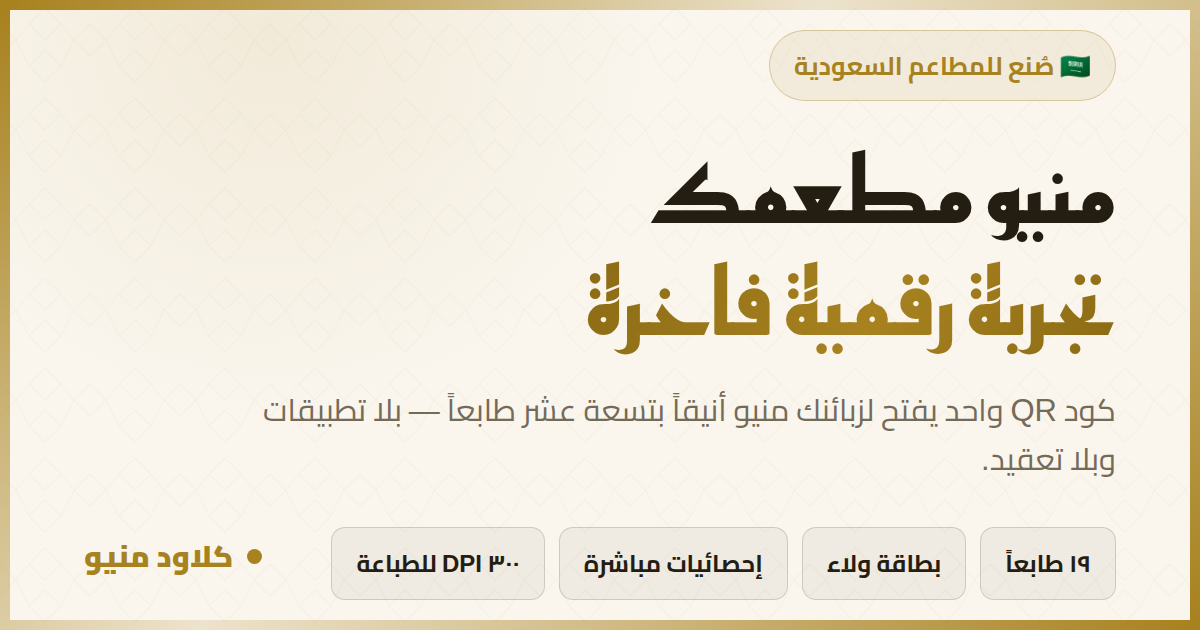
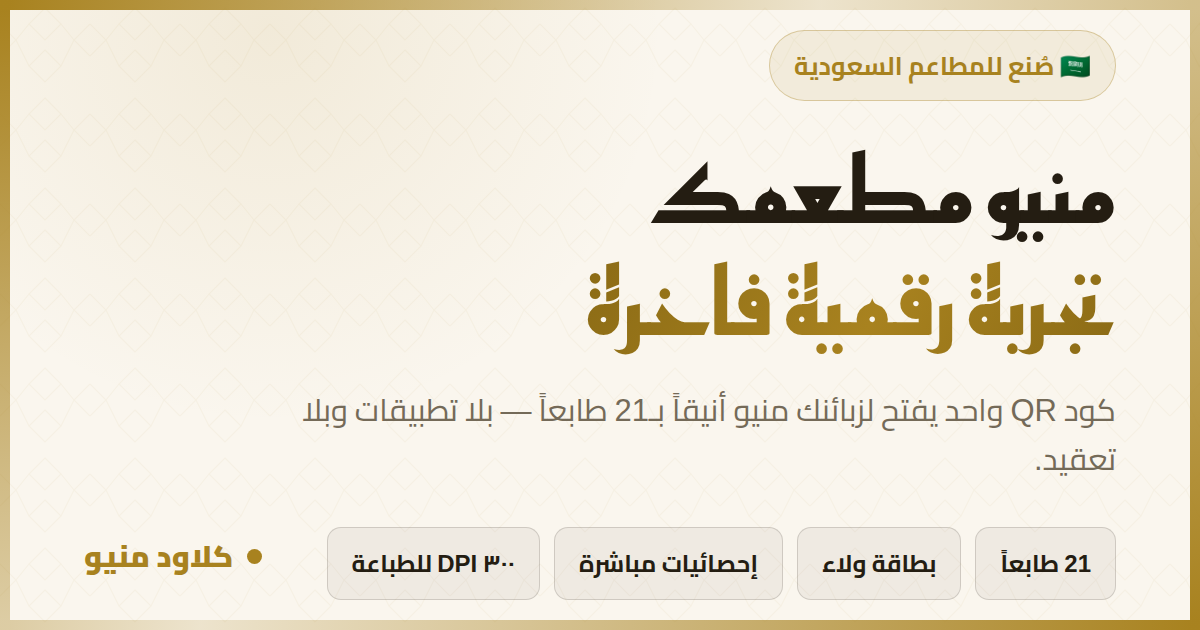
fix(copy): المنتج ٢١ طابعاً واشتراكٌ لا مجّانية — والدفع يُذكر
أربعة قرارات من المالك، وحارسان يمنعان عودة اثنين منها.

**١) العدد ٢١ لا ١٩.** `lib/facts.ts` يحسبه من `ALL_THEMES.length` منذ أن
تقادم «١٢ طابعاً» مرّةً — لكن العطل عاد **في النثر**: ثمانية نصوص تقول
«تسعة عشر»، منها وسوم `index.html` التي تقرؤها محرّكات البحث،
و`manifest.webmanifest`، وبطاقة المشاركة التي تظهر في واتساب. أي أن الصفحة
كانت تنقص من المنتج طابعين أمام التاجر لحظة القرار.

ما في الحزمة صار يشتقّ العدد من `THEME_COUNT`. وما هو خارجها (وسوم ساكنة،
manifest، سكربت البطاقة) يبقى مكتوباً بالضرورة — فيحرسه `facts-copy.test.ts`:
يقرأ الرقم منها ويقارنه بالمصدر، ويرفض العدد مكتوباً بالحروف لأن ذاك هو
الشكل الذي تقادم فعلاً. وأُعيد توليد `og.png`.

**٢) التجربة ثلاثة أيام.** `TRIAL_DAYS = 3` في الشيفرة منذ قرار التسعير،
و§9 في `docs/security.md` بقي يقول ١٤. صُحّح، ومعه أن المدّة الفعليّة تفرضها
القاعدة لا الواجهة.

**٣) الدفع الإلكتروني يُذكر.** المسار موصول كاملاً (`Cart` ⇐ `CartReview` ⇐
`paylink-order-create` ⇐ `order-verify`)، والتاجر يربط بوّابته من
`PaymentSettingsCard`. والتعليق في `plans.ts` كان يمنع ذكره لأنه «غير
مُفعَّل» — وتقادم.

وصيغة الذكر «إلى حسابك أنت» لا «ادفع عندنا»: المال يصل حساب التاجر مباشرة
ولا يمرّ بالمنصّة، وهذا هو الفرق الذي يشتريه.

⚠ وكان في `free-tier.test.ts` حارسٌ يُسقط أي ادّعاء دفع، وقد نصّ هو على
شرط رفعه: «يوم يُفعَّل المسار يُحذف بقرار صريح، لا يمرّ الادّعاء سهواً».
فرُفع بقرار المالك ووُثّق سببه في موضعه — ويبقى محروساً أن الدفع ميزة
اشتراك لا شيء يُفتح لمن لم يدفع.
[…]

diff --git a/app/src/pages/Landing.tsx b/app/src/pages/Landing.tsx
@@ -33,7 +33,7 @@ import { absoluteUrl, useJsonLd, useSeo } from "@/lib/seo";
 /* ── شريط الطوابع ───────────────────────────────────────────────────── */
 
 /**
- * الطوابع التي يقلّبها العرض التلقائي — **خمسة لا تسعة عشر**.
+ * الطوابع التي يقلّبها العرض التلقائي — **خمسة لا كلّها**.
  *
  * تقليب الـ١٩ تلقائياً بمعدّل ٢٫٦ ثانية = خمسون ثانية عرضٍ لا يحتملها زائر.
  * والخمسة مختارة كي يتبدّل في كل خطوة **محورٌ بنيوي** لا لون: سدو بترويسة
@@ -79,7 +79,7 @@ function ThemeRail({ value, onChange }: { value: string; onChange: (id: string) 
 
   return (
     // ⚠ `min-w-0` ليست زينة: حاوية تمرير أفقي داخل شبكة تساهم بعرض **محتواها
-    // الأقصى** في تحجيم العمود ما لم يُصفَّر حدّها الأدنى. وتسعة عشر شريحة =
+    // الأقصى** في تحجيم العمود ما لم يُصفَّر حدّها الأدنى. وشرائح الطوابع كلّها =
     // ٢٠٣١px، فكان عمود البطل يتمدّد إليها ويُدفع النصّ والأزرار والجهاز خارج
     // الشاشة على الجوال — صفحة بطلٍ **فارغة تماماً**، بلا خطأ ولا تمرير أفقي
     // لأن الفائض مقصوص. رُصد باللقطة على ٣٩٠px.
@@ -255,7 +255,7 @@ function CardShowcase() {
  */
 const TRUST: { icon: IconName; label: string }[] = [
   { icon: "sparkle", label: "تجهيز في دقائق" },
-  { icon: "money", label: "مجاناً للأبد" },
+  { icon: "money", label: "بلا عمولة على الطلبات" },
   { icon: "shield", label: "متوافق مع SFDA" },
 ];
 
@@ -283,7 +283,7 @@ function Words({ text, className }: { text: string; className?: string }) {
 /* ── الأقسام ───────────────────────────────────────────────────────── */
 const FEATURES = [
   { emoji: "📱", title: "منيو QR فوري", desc: "زبونك يمسح الكود ويتصفح المنيو في ثانية — بلا تطبيق، بلا انتظار، وبثيمات فاخرة تناسب هوية مطعمك." },
-  { emoji: "🎨", title: "طوابع + لون علامتك", desc: "تسعة عشر طابعاً كاملاً بينها طوابع تراثية سعودية — زخرفة وترويسة وتخطيط وخطّ، أو اختر لون مشروعك وسنبني منه طابعاً متناسقاً." },
+  { emoji: "🎨", title: "طوابع + لون علامتك", desc: `${THEME_COUNT} طابعاً كاملاً بينها طوابع تراثية سعودية — زخرفة وترويسة وتخطيط وخطّ، أو اختر لون مشروعك وسنبني منه طابعاً متناسقاً.` },
   { emoji: "📊", title: "إحصائيات مباشرة", desc: "اعرف أكثر الأطباق مشاهدةً وأوقات الذروة يوماً بيوم، وخذ قراراتك بالأرقام لا بالتخمين." },
   { emoji: "🍎", title: "معلومات غذائية وSFDA", desc: "سعرات، صوديوم، كافيين، ومسببات الحساسية لكل طبق — التزام كامل بمتطلبات هيئة الغذاء والدواء." },
   { emoji: "💛", title: "بطاقة ولاء رقمية", desc: "كافئ زبائنك المتكررين بنظام نقاط مدمج في المنيو نفسه — بلا بطاقات ورقية تضيع." },
@@ -362,7 +362,7 @@ const BEATS = [
   {
     id: "luxe",
     title: "خامة وخطّ",
-    desc: "عمق الأسطح ولمعة الذهب وحدّ الحافّة، وخطّ رقعة للعناوين مع خطّ قراءة للأصناف. تسعة عشر طابعاً — لا اثنان منها متشابهان.",
+    desc: `عمق الأسطح ولمعة الذهب وحدّ الحافّة، وخطّ رقعة للعناوين مع خطّ قراءة للأصناف. ${THEME_COUNT} طابعاً — لا اثنان منها متشابهان.`,
   },
 ] as const;
 
@@ -405,7 +405,7 @@ function ThemeStage() {
     <section id="themes" className="scroll-mt-20 border-y border-line bg-panel/40">
       <div className="mx-auto max-w-6xl px-5 py-16">
         <Reveal className="mb-12 text-center">
-          <Badge className="mb-5">🎨 تسعة عشر طابعاً</Badge>
+          <Badge className="mb-5">🎨 {THEME_COUNT} طابعاً</Badge>
           <h2 className="font-display text-3xl font-black leading-[1.25] text-ink">
             الطابع <span className="text-gold-grad">ليس لوناً</span>
           </h2>
@@ -504,12 +504,12 @@ export default function Landing() {
   const hero = usePassed<HTMLElement>();
 
   useSeo({
-    title: "منيو رقمي QR لمطعمك — مجاناً",
+    title: "منيو رقمي QR لمطعمك",
     /* `clampDescription` يقصّ عند ١٦٠ محرفاً، والوصف السابق كان ~١٦٥ فيُبتر
        عند «٣٠٠ DPI». وهذا أقصر، ويقود بالمجاني وبطلبات واتساب — وهما ما
        يعمل اليوم — لا بالسعر ولا بميزة غير مُفعَّلة. */
     description:
-      "منيو QR مجاني للأبد لمطعمك: طلبات واتساب بلا عمولة، تسعة عشر طابعاً، عربي وإنجليزي، بلا تطبيق يحمّله زبونك.",
+      `منيو QR لمطعمك بـ${THEME_COUNT} طابعاً: طلبات واتساب بلا عمولة، دفع إلكتروني، عربي وإنجليزي، بلا تطبيق يحمّله زبونك.`,
     path: "/",
     image: "/og.png",
   });
@@ -615,16 +615,16 @@ export default function Landing() {
               <Words text="والطلب يصلك على واتساب" className="text-gold-grad" />
             </h1>
             <p className="mx-auto mt-5 max-w-[46ch] text-lg leading-[1.85] text-dim lg:mx-0">
-              منيو QR كامل بـ{THEME_COUNT} طابعاً، عربي وإنجليزي، يعمل{" "}
-              <span className="font-bold text-ink">مجاناً للأبد</span> — والطلب يصل
-              واتساب مطعمك مباشرة بلا عمولة، وبلا تطبيق يحمّله زبونك.
+              منيو QR كامل بـ{THEME_COUNT} طابعاً، عربي وإنجليزي — والطلب يصل واتساب
+              مطعمك مباشرة <span className="font-bold text-ink">بلا عمولة</span>، أو
+              يدفعه زبونك في المنيو نفسه. وبلا تطبيق يحمّله أحد.
             </p>
             <div className="mt-8 flex flex-wrap items-center justify-center gap-3 lg:justify-start">
               <Link
                 to="/login?mode=signup"
                 className="rounded-xl bg-gold px-6 py-3 font-bold text-on-gold shadow-[0_8px_30px_-8px_var(--c-glow)] transition-transform hover:bg-gold2 active:scale-[.98]"
               >
-                ابدأ الآن مجاناً
+                ابدأ تجربتك المجانية
               </Link>
               {/* تجربة المنتج الحقيقية أقوى من قائمة مزايا — نضعها ثاني زر. */}
               <Link

diff --git a/app/tests/facts-copy.test.ts b/app/tests/facts-copy.test.ts
@@ -1,0 +1,91 @@
+/**
+ * أرقام المنتج في النصوص الساكنة — **حارس التكرار الثالث**.
+ *
+ * ═══ العطل الذي وقع مرّتين ═══
+ *
+ * `Landing.tsx` كتبت «١٢ طابعاً» بعدد ثابت فبقيت ١٢ بعد إضافة سبعة. فأُنشئ
+ * `lib/facts.ts` ليحسب العدد من `ALL_THEMES.length` — وحُلّت المشكلة **في
+ * الشيفرة**.
+ *
+ * ثم وقعت ثانيةً وفي مكان لا يصله الحلّ: **النصوص**. صار المنتج ٢١ طابعاً
+ * وبقيت ثمانية نصوص تقول «تسعة عشر» — في وسوم `index.html` التي تقرؤها
+ * محرّكات البحث، وفي `manifest.webmanifest`، وفي بطاقة المشاركة التي تظهر في
+ * واتساب. أي أن الصفحة كانت **تنقص من المنتج طابعين** أمام التاجر لحظة
+ * القرار، ولا شيء يمسك ذلك: لا `tsc` يقرأ النثر، ولا فحص يفتح `index.html`.
+ *
+ * ═══ لماذا لا يكفي أن تُستورد `THEME_COUNT` ═══
+ *
+ * ملفّات `index.html` و`manifest.webmanifest` و`og.mjs` خارج حزمة التطبيق:
+ * الأوّلان يُقرآن قبل أن يعمل جافاسكربت، والثالث سكربت Node مستقلّ. فلا سبيل
+ * إلى استيراد ثابت فيها — والبديل أن **يُقرأ الرقم منها ويُقارن بالمصدر**.
+ */
+import { describe, expect, it } from "vitest";
+import { readFileSync } from "node:fs";
+import { fileURLToPath } from "node:url";
+import { THEME_COUNT } from "@/lib/facts";
+import { ALL_THEMES } from "@/lib/themes";
+
+const read = (rel: string) =>
+  readFileSync(fileURLToPath(new URL(rel, import.meta.url)), "utf8");
+
+/** الأعداد المكتوبة بالحروف العربية التي ظهرت في النصوص فعلاً. */
+const SPELLED = [
+  "ثمانية", "تسعة", "عشرة", "أحد عشر", "اثنا عشر", "اثني عشر",
+  "ثلاثة عشر", "أربعة عشر", "خمسة عشر", "ستة عشر", "ستّة عشر",
+  "سبعة عشر", "ثمانية عشر", "تسعة عشر", "عشرون", "عشرين",
+];
+
+describe("عدد الطوابع — مصدر واحد", () => {
+  it("`THEME_COUNT` محسوب من المصفوفة لا مكتوب", () => {
+    expect(THEME_COUNT).toBe(ALL_THEMES.length);
+    // ⚠ لو صار رقماً ثابتاً يوماً، هذا الفحص وحده يبقى بلا معنى.
+    expect(read("../src/lib/facts.ts")).toContain("ALL_THEMES.length");
+  });
+
+  /**
+   * الملفّات الثلاثة الساكنة: الرقم فيها مكتوب بالضرورة، فيُقارن بالمصدر.
+   * ⚠ ويُفحص **الرقم عدداً** لا مجرّد وجود النصّ: `21` تمرّ و`19` تسقط.
+   */
+  it.each([
+    ["index.html", "../index.html"],
+    ["manifest.webmanifest", "../public/manifest.webmanifest"],
+    ["scripts/og.mjs", "../scripts/og.mjs"],
+  ])("%s يذكر العدد الصحيح ولا يخالفه", (_name, rel) => {
+    const text = read(rel);
+    const mentions = [...text.matchAll(/(\d{1,3})\s*طابع/g)].map((m) => Number(m[1]));
+    expect(mentions.length, "لا ذكر لعدد الطوابع إطلاقاً").toBeGreaterThan(0);
+    for (const n of mentions) expect(n).toBe(THEME_COUNT);
+  });
+
+  it.each([
+    ["index.html", "../index.html"],
+    ["manifest.webmanifest", "../public/manifest.webmanifest"],
+    ["scripts/og.mjs", "../scripts/og.mjs"],
+    ["Landing.tsx", "../src/pages/Landing.tsx"],
+  ])("%s لا يكتب العدد بالحروف", (_name, rel) => {
+    // عددٌ مكتوب بالحروف لا يُمسك بالمقارنة أعلاه — وهو الشكل الذي تقادم فعلاً.
+    const text = read(rel);
+    for (const word of SPELLED) {
+      expect(text, `«${word} طابعاً» مكتوب بالحروف`).not.toContain(`${word} طابع`);
+    }
+  });
+});
+
+describe("لا وعد بمجّانية دائمة", () => {
+  /**
+   * ⚠ المنتج **اشتراك** بتجربة تنتهي — لا طبقة مجانية دائمة، وهذا ما تقوله
+   * صفحة الأسعار منذ البداية. لكن البطل ووسوم الصفحة كانا يَعِدان «مجاناً
+   * للأبد»، فكان التاجر يصل صفحة الأسعار ليجد وعداً آخر. الفحص يمنع عودة
+   * الوعد إلى الواجهات التي تسبق صفحة الأسعار.
+   */
+  it.each([
+    ["الهبوط", "../src/pages/Landing.tsx"],
+    ["index.html", "../index.html"],
+    ["manifest.webmanifest", "../public/manifest.webmanifest"],
+  ])("%s لا يَعِد بمجّانية دائمة", (_name, rel) => {
+    const text = read(rel).replace(/\/\*[\s\S]*?\*\//g, "").replace(/^\s*\/\/.*$/gm, "");
+    for (const claim of ["مجاناً للأبد", "مجاني للأبد", "مجانًا للأبد"]) {
+      expect(text, `وعدٌ بمجّانية دائمة: «${claim}»`).not.toContain(claim);
+    }
+  });
+});

diff --git a/app/tests/free-tier.test.ts b/app/tests/free-tier.test.ts
@@ -10,9 +10,10 @@
  * وهو حرفياً الخلل الذي أُغلق حين حُذفت `premium` من كتالوج الخادم
  * (التعليق في `_shared/plans.ts` يوثّقه: «سطحٌ ميّت يُغلق لا يُترك»).
  *
- * ويحرس كذلك القاعدة التي يقوم عليها نموذج العمل: **المنيو نفسه مجاني**.
- * أي حدّ يُوضع على عدد الأصناف أو القوائم في الطبقة المجانية يجعل المنتج
- * أضعف من منيو مجاني في السوق، ويعيد الجدار إلى حيث لا يحمي إيراداً.
+ * ويحرس كذلك أن **المنيو نفسه بلا سقف**: لا حدّ على عدد الأصناف ولا القوائم
+ * لمن لا اشتراك له. وهذه سياسةُ عدم احتجاز — **لا تُسوَّق ولا تُعلَن**
+ * (المنتج اشتراكٌ بتجربة تنتهي، §`plans.ts`) — لكنها تبقى قائمة: إطفاء
+ * منيو مطعم عامل لأنه لم يدفع فعلٌ ثمنُه أضعاف اشتراك.
  */
 import { readFileSync } from "node:fs";
 import { fileURLToPath } from "node:url";
@@ -85,25 +86,20 @@ describe("من لا اشتراك له: المنيو يبقى بلا سقف", () 
 });
 
 /**
- * ═══ الحارس الأهمّ ═══
+ * ═══ حارسٌ رُفع بقرار صريح — ٢٠٢٦/٠٨/٢٢ ═══
  *
- * الدفع الإلكتروني **مبنيّ وغير مُفعَّل**. وقد كانت الصفحة تصدّر بطاقة الـ٩٩
- * بـ«سلّة طلبات ودفع إلكتروني» وتضع في البطل شريحة «مدى · Apple Pay» — أي
- * أنها تعِد بما لا يجده التاجر. وصفحةٌ تبيع ما لا يعمل أسوأ من صفحة تنقصها
- * ميزة: الأولى تهدم الثقة، والثانية تؤجّلها.
+ * كان هنا فحصٌ يُسقط أي ادّعاء دفعٍ إلكتروني في نصّ تسويقي، لأن المسار كان
+ * **مبنيّاً وغير موصول**: الصفحة كانت تعِد بـ«مدى · Apple Pay» بما لا يجده
+ * التاجر، وصفحةٌ تبيع ما لا يعمل تهدم الثقة.
  *
- * فيسقط هذا الفحص إن عاد أي ادّعاء دفعٍ إلى نصّ تسويقي — ويوم يُفعَّل المسار
- * يُحذف الفحص بقرار صريح، لا يمرّ الادّعاء سهواً.
+ * والمسار وُصل: `Cart.tsx` ⇐ `CartReview.tsx` ⇐ `paylink-order-create` ⇐
+ * `order-verify`، والتاجر يربط بوّابته من `PaymentSettingsCard`. فرُفع الفحص
+ * **بقرار المالك** — وهو ما نصّ عليه الفحص نفسه: «يوم يُفعَّل المسار يُحذف
+ * بقرار صريح، لا يمرّ الادّعاء سهواً».
+ *
+ * ⚠ وما يبقى محروساً: `FREE_LIMITS.onlinePayment` مغلق (أعلاه)، فالدفع
+ * ميزةُ اشتراك لا شيءٌ يُفتح لمن لم يدفع.
  */
-describe("لا ادّعاء دفعٍ إلكتروني قبل تفعيله", () => {
-  const CLAIMS = ["Apple Pay", "مدى", "دفع إلكتروني", "الدفع الإلكتروني"];
-
-
-  it("ولا في مزايا الباقة المدفوعة", () => {
-    const text = PLANS.flatMap((p) => p.features).join(" ");
-    for (const c of CLAIMS) expect(text, `ادّعاء دفع: ${c}`).not.toContain(c);
-  });
-});
 
 describe("الحالة الابتدائية تسقط إلى الأقلّ لا الأكثر", () => {
   it("قبل حسم الصلاحيات لا تُمنح أداة مدفوعة", () => {

diff --git a/app/src/lib/plans.ts b/app/src/lib/plans.ts
@@ -29,11 +29,16 @@ export type PlanLimits = {
   /** سلّة الزبون — يجمع طلبه ويرسله إلى واتساب المطعم. */
   cart: boolean;
   /**
-   * الدفع الإلكتروني داخل المنيو (بوّابة التاجر).
+   * الدفع الإلكتروني داخل المنيو — **ببوّابة التاجر هو**.
    *
-   * ⚠ **مبنيّ وغير مُفعَّل.** الشيفرة قائمة (`Cart.tsx` و`paylink-order-create`)
-   * لكن المسار لم يُشغَّل بعد. فلا يُذكر في أي نصّ تسويقي حتى يعمل — ووجود
-   * الراية هنا يجعل تشغيله لاحقاً تبديل قيمة لا إعادة بناء.
+   * المسار موصول كاملاً: `Cart.tsx` ⇐ `CartReview.tsx` ⇐ `paylink-order-create`
+   * ⇐ `order-verify`، والتاجر يربط حساب PayLink الخاص به من
+   * `PaymentSettingsCard`. فالمال يصل حسابه مباشرة ولا يمرّ بنا — وهذا ما
+   * يُقال في النصّ التسويقي، لا «ادفع عندنا».
+   *
+   * ⚠ وكان التعليق هنا يقول «مبنيّ وغير مُفعَّل، فلا يُذكر في أي نصّ» — وقد
+   * تقادم: الشيفرة وُصلت والواجهة تستدعيها. تعليقٌ يمنع ذكر ميزة عاملة يكلّف
+   * مثل تعليقٍ يبيح ذكر ميزة غائبة.
    */
   onlinePayment: boolean;
   /** وضع الكاشير — رمز الموظّف وصفحة الختم. */
@@ -167,15 +172,16 @@ export const PLANS: Plan[] = [
      * فقائمةٌ تبدأ بـ«بطاقة الولاء» تترك المشتري لا يرى المنيو نفسه — وهو
      * أوّل ما يشتريه. فتبدأ بالمنيو وتنتهي بالأدوات.
      *
-     * ⚠ **ولا يُذكر الدفع الإلكتروني.** الشيفرة مبنيّة والمسار لم يُشغَّل
-     * بعد، وصفحةٌ تبيع ما لا يجده التاجر أسوأ من صفحة تنقصه ميزة. يُضاف
-     * السطر يوم يعمل، لا قبله.
+     * ⚠ **والدفع الإلكتروني يُذكر الآن** — بعد أن وُصل المسار فعلاً. وصيغته
+     * «إلى حسابك أنت» لا «ادفع عندنا»: التاجر يربط بوّابته، فالمال يصله
+     * مباشرة. وهذا هو الفرق الذي يشتريه، فلا يُطمس في كلمة «دفع إلكتروني».
      *
      * الترتيب مقصود: ما يُعيد الزبون أولاً، ثم ما يوفّر على التاجر عملاً.
      */
     features: [
       "منيو QR كامل — أصناف وأقسام غير محدودة",
       "طلبات واتساب — تصلك مباشرة بلا عمولة",
+      "دفع إلكتروني داخل المنيو — إلى حسابك أنت",
       `${THEME_COUNT} طابعاً كاملاً + طابع بلون علامتك`,
       "منيو ثنائي اللغة (عربي/إنجليزي)",
       "معلومات غذائية ومسبّبات حساسية (SFDA)",

diff --git a/app/src/lib/entitlements.ts b/app/src/lib/entitlements.ts
@@ -36,8 +36,17 @@ export type Entitlements = PlanLimits & {
   loading: boolean;
 };
 
-/** اسم الطبقة المجانية كما يراه التاجر — مصدر واحد. */
-export const FREE_PLAN_NAME = "المنيو المجاني";
+/**
+ * حالة من لا اشتراك له كما يراها التاجر — مصدر واحد.
+ *
+ * ⚠ كانت «المنيو المجاني»، أي أنها **تُسوّق طبقةً مجانية** داخل اللوحة بينما
+ * المنتج اشتراكٌ بتجربة تنتهي — وصفحة الأسعار تقول ذلك منذ البداية. فكان
+ * التاجر يقرأ في لوحته وعداً يخالف ما اشترى عليه.
+ *
+ * والاسم الآن يصف الحالة ولا يَعِد بشيء. أمّا أن منيوه يبقى يعمل بلا اشتراك
+ * فسياسةُ عدم احتجاز (انظر `FREE_LIMITS`) — لا تُعلَن ولا تُباع.
+ */
+export const NO_PLAN_NAME = "بلا اشتراك";
 
 /**
  * الحالة الابتدائية **مجانية لا مدفوعة**.
@@ -49,7 +58,7 @@ export const FREE_PLAN_NAME = "المنيو المجاني";
 export const DEFAULT_ENTITLEMENTS: Entitlements = {
   ...FREE_LIMITS,
   planId: "free",
-  planName: FREE_PLAN_NAME,
+  planName: NO_PLAN_NAME,
   active: false,
   trial: false,
   trialDaysLeft: 0,
@@ -61,9 +70,7 @@ export const DEFAULT_ENTITLEMENTS: Entitlements = {
  */
 export function planLabel(ent: Entitlements): string {
   if (ent.loading) return "…";
-  // «بدون اشتراك» كانت تصف نقصاً؛ والمجاني الآن **طبقة قائمة بذاتها** ومنيوه
-  // يعمل للأبد. الفرق ليس تجميلاً: التاجر يقرأ الأولى إنذاراً والثانية حالة.
-  if (!ent.active) return FREE_PLAN_NAME;
+  if (!ent.active) return NO_PLAN_NAME;
   if (ent.trial) {
     return ent.trialDaysLeft <= 1
       ? "التجربة تنتهي اليوم"
@@ -96,7 +103,7 @@ export async function fetchEntitlements(userId: string): Promise<Entitlements> {
   return {
     ...(active ? PLAN.limits : FREE_LIMITS),
     planId: active ? PLAN.id : "free",
-    planName: active ? PLAN.name : FREE_PLAN_NAME,
+    planName: active ? PLAN.name : NO_PLAN_NAME,
     active,
     trial,
     trialDaysLeft,

diff --git a/app/index.html b/app/index.html
@@ -8,7 +8,7 @@
     <title>كلاود منيو — منيو رقمي QR لمطعمك</title>
     <meta
       name="description"
-      content="حوّل منيو مطعمك إلى تجربة رقمية فاخرة عبر رمز QR: تسعة عشر طابعاً بينها طوابع تراثية سعودية، إحصائيات مباشرة، بطاقة ولاء رقمية، وبطاقة كاشير جاهزة للطباعة بدقة ٣٠٠ DPI. صُنع للمطاعم السعودية."
+      content="حوّل منيو مطعمك إلى تجربة رقمية فاخرة عبر رمز QR: 21 طابعاً بينها طوابع تراثية سعودية، إحصائيات مباشرة، بطاقة ولاء رقمية، وبطاقة كاشير جاهزة للطباعة بدقة ٣٠٠ DPI. صُنع للمطاعم السعودية."
     />
     <link rel="canonical" href="https://cloudsmenu.netlify.app/" />
 
@@ -16,7 +16,7 @@
     <meta property="og:title" content="كلاود منيو — منيو رقمي QR لمطعمك" />
     <meta
       property="og:description"
-      content="تسعة عشر طابعاً فاخراً، إحصائيات مباشرة، بطاقة ولاء، وبطاقة كاشير جاهزة للطباعة. بلا تطبيقات وبلا تعقيد."
+      content="21 طابعاً فاخراً، إحصائيات مباشرة، بطاقة ولاء، وبطاقة كاشير جاهزة للطباعة. بلا تطبيقات وبلا تعقيد."
     />
     <meta property="og:type" content="website" />
     <meta property="og:locale" content="ar_SA" />
@@ -31,7 +31,7 @@
     <meta name="twitter:title" content="كلاود منيو — منيو رقمي QR لمطعمك" />
     <meta
       name="twitter:description"
-      content="تسعة عشر طابعاً فاخراً، إحصائيات مباشرة، بطاقة ولاء، وبطاقة كاشير جاهزة للطباعة."
+      content="21 طابعاً فاخراً، إحصائيات مباشرة، بطاقة ولاء، وبطاقة كاشير جاهزة للطباعة."
     />
     <meta name="twitter:image" content="https://cloudsmenu.netlify.app/og.png" />
 

diff --git a/app/src/components/landing/ScanDemo.tsx b/app/src/components/landing/ScanDemo.tsx
@@ -225,7 +225,7 @@ export function ScanDemo() {
                 to="/login"
                 className="rounded-xl bg-gold px-5 py-2.5 text-sm font-black text-on-gold transition-transform hover:scale-[1.02]"
               >
-                جرّبه على منيوك مجاناً
+                جرّبه على منيوك
               </Link>
             </div>
           </div>

diff --git a/app/src/components/site.tsx b/app/src/components/site.tsx
@@ -157,7 +157,7 @@ export function Navbar() {
                 to="/login?mode=signup"
                 className="inline-flex min-h-11 items-center rounded-xl bg-gold px-4 py-2 text-sm font-bold text-on-gold hover:bg-gold2"
               >
-                ابدأ مجاناً
+                ابدأ تجربتك
               </Link>
             </>
           )}

diff --git a/docs/security.md b/docs/security.md
@@ -35,7 +35,10 @@
 
 ## 9. التجربة المجانية
 
-`startTrial(userId)` تُنشئ صف `subscriptions` بـ`plan_id='trial'` لمدة ١٤ يوماً
+`startTrial(userId)` تُنشئ صف `subscriptions` بـ`plan_id='trial'` لمدة **ثلاثة
+أيام** (كان ١٤ — والقصر قرار تسعير: التجربة الطويلة تؤجّل القرار ولا تصنعه).
+والمدّة الفعليّة تفرضها القاعدة من `site_settings.billing.trial_days` وتدهس ما
+يصل من المتصفح؛ و`TRIAL_DAYS` في `lib/data.ts` احتياطُ عرضٍ لا أكثر
 عند إنشاء المطعم. **لا تحتاج أي تغيير خلفي**: `is_menu_published` تسأل فقط عن
 اشتراك نشط لم ينتهِ، فصف التجربة يفتح النشر تلقائياً — وهذا ما يمنع أن يُطفئ
 التحويل إلى `pk_live` منيو تاجر بدأ لتوّه.
